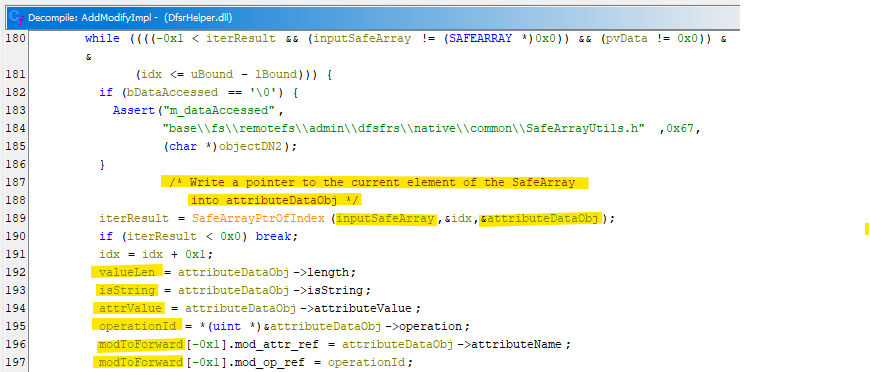
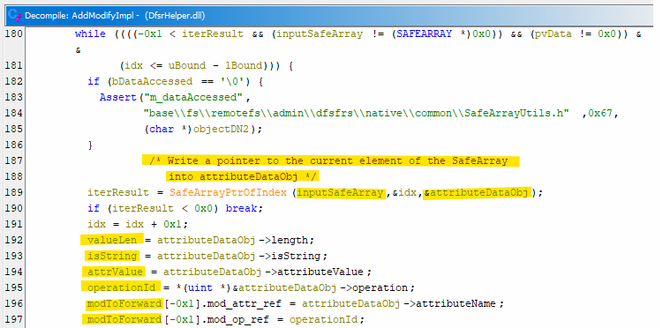
Updating.

diff --git a/articles/helping-a-little-too-much.md b/articles/helping-a-little-too-much.md
@@ -104,7 +104,7 @@ On top of that, the `DfsrHelper.dll` only forwards that value field through the 
 
 ## Internals
 
-To analyze the code responsible for this behavior, the first step is to look for information on the DCOM **interfaces** involved (`IADProxy` / `IADProxy2`). In this case, the spec itself, in footnote `<15>`, spoils that the DCOM class responsible for these interfaces is defined in `C:\Windows\System32\DFSRHelper.dll`. But even if it wasn't mentioned, we could trace the interfaces defined in the spec - in sections 3.1.5.2 and 3.1.5.3 it declares the IIDs of these interfaces as `{4BB8AB1D-9EF9-4100-8EB6-DD4B4E418B72}` and `{C4B0C7D9-ABE0-4733-A1E1-9FDEDF260C7A}`. If we look up the interfaces with i.e. [OleViewDotNet](https://github.com/tyranid/oleviewdotnet) and open up their properties, we can see their type libraries point to the same DLL:
+To analyze the code responsible for this behavior, the first step is to look for information on the DCOM **interfaces** involved (`IADProxy` / `IADProxy2`). In this case, the spec itself, in footnote `<15>`, spoils that the DCOM class responsible for these interfaces is defined in `DFSRHelper.dll`, which lives in `C:\Windows\System32`. But even if it wasn't mentioned, we could trace the interfaces defined in the spec - in sections 3.1.5.2 and 3.1.5.3 it declares the IIDs of these interfaces as `{4BB8AB1D-9EF9-4100-8EB6-DD4B4E418B72}` and `{C4B0C7D9-ABE0-4733-A1E1-9FDEDF260C7A}`. If we look up the interfaces with i.e. [OleViewDotNet](https://github.com/tyranid/oleviewdotnet) and open up their properties, we can see their type libraries point to the same DLL:
 
 <figure><img src="../.gitbook/assets/615392594-72a019f2-c4dc-4f89-8c1b-b0e44b56a399.png" alt=""><figcaption></figcaption></figure>
 